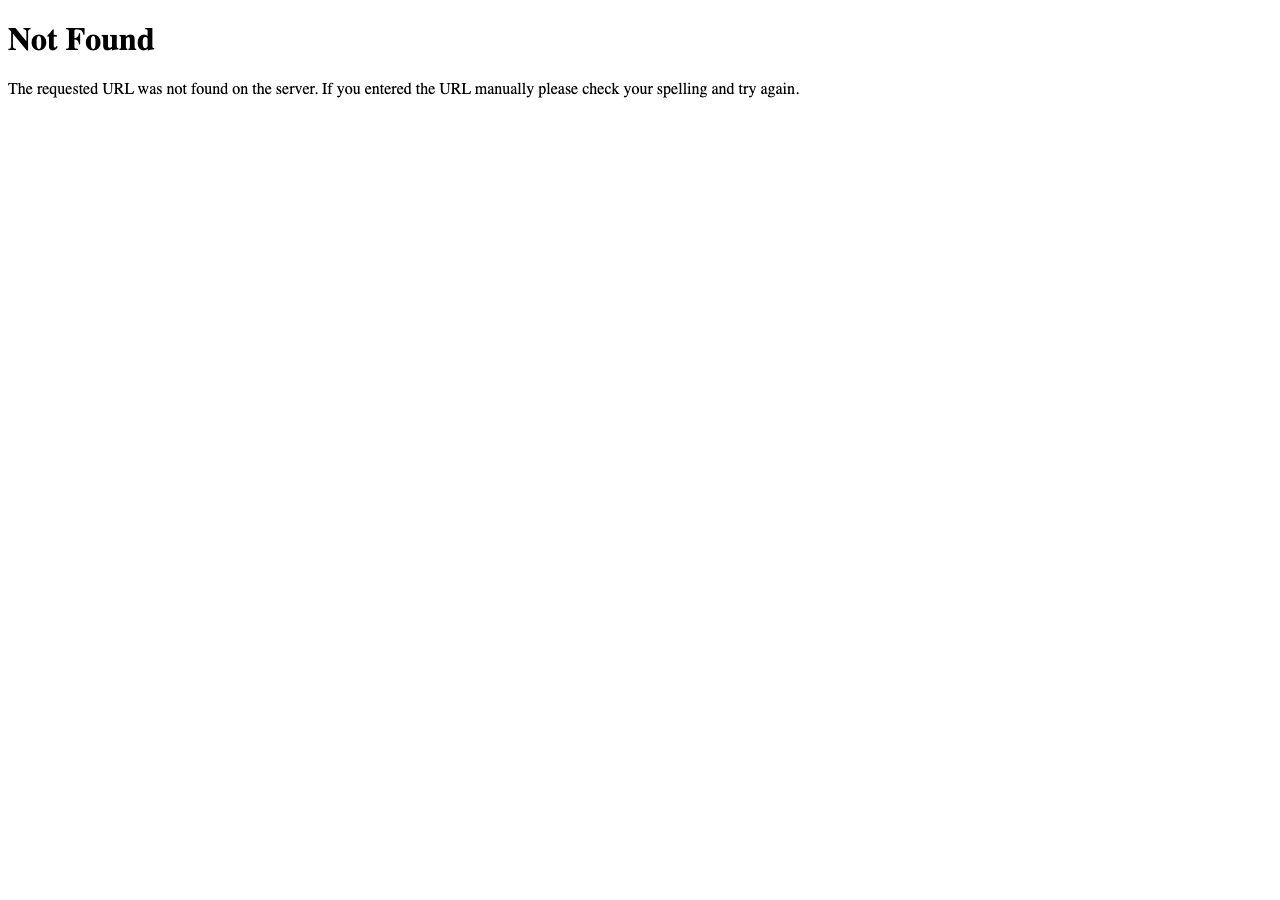
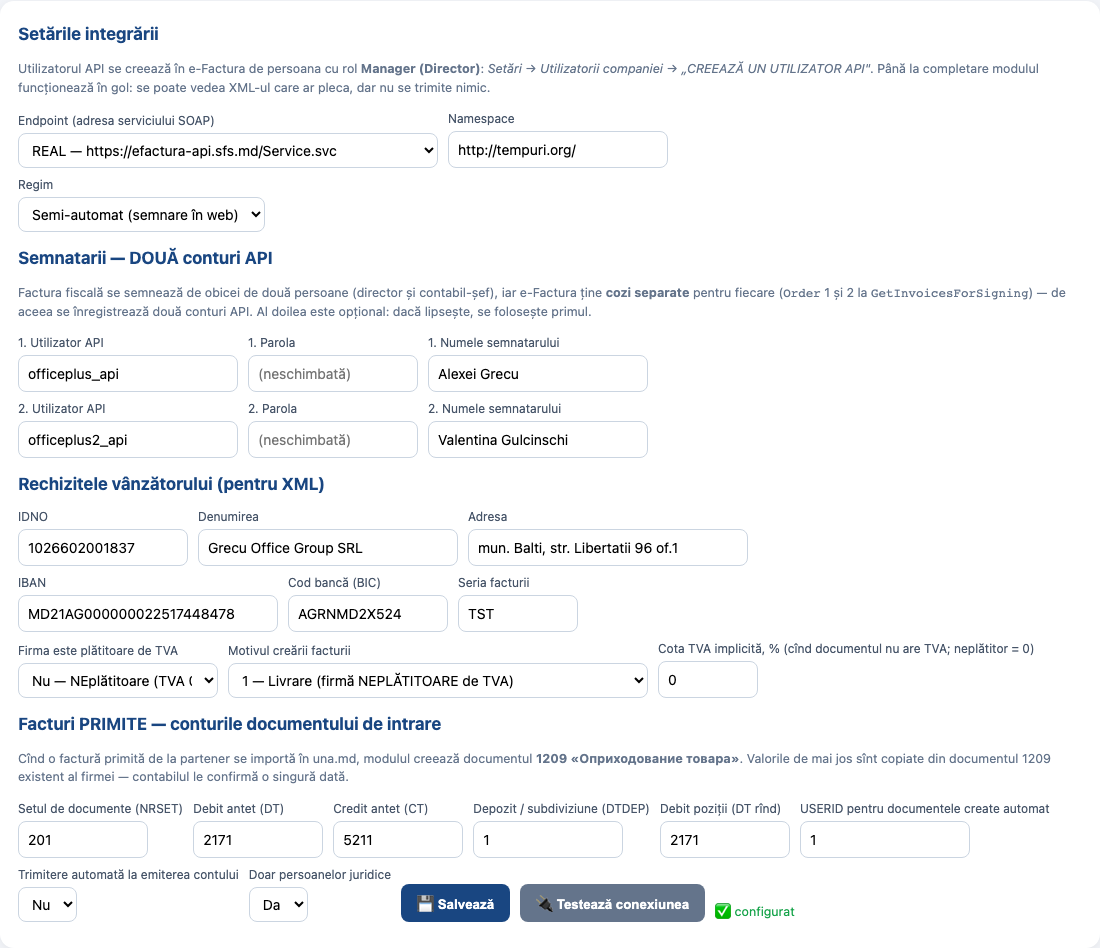
fix(efactura): captura 5 din act arata pagina Not Found (adresa /efactura/admin inexistenta) — refacuta de pe pagina reala; setarile contabile in_* aduse in interfata de administrare; jurnalul taiat la primele rinduri

diff --git a/docs/Partner/EFACTURA_ACT_TESTARE_2026-09-13.html b/docs/Partner/EFACTURA_ACT_TESTARE_2026-09-13.html
@@ -40,7 +40,7 @@ Ramura <code>feat/efactura</code>, worktree <code>Artgranit-efactura</code>.</p>
 <h2>2. Rezultatele pe pași</h2>
 <table>
 <tr><th>#</th><th>Pas (din instrucțiune)</th><th>Rezultat obținut</th><th>Verdict</th></tr>
-<tr><td>0</td><td>Pregătire: setări, formular nativ</td><td>setările <code>in_nrset 201 / in_dt 2171 / in_ct 5211 / in_dtdep 1 / in_dt_row 2171 / in_userid 1</code>, <code>vat_payer 0</code>, <code>creation_motiv 1</code>; formularul 12103 creat în <code>A$ADM</code> (OBJ_ID 11530 sub «Intrări», 5 acțiuni); <code>TMS_SYSS</code> tip XM completat (23 rînduri) după modelul FPROIECT</td><td class="ok">OK</td></tr>
+<tr><td>0</td><td>Pregătire: setări, formular nativ</td><td>setările <code>in_nrset 201 / in_dt 2171 / in_ct 5211 / in_dtdep 1 / in_dt_row 2171 / in_userid 1</code> (acum vizibile și editabile în pagina de administrare — defectul D8), <code>vat_payer 0</code>, <code>creation_motiv 1</code>; formularul 12103 creat în <code>A$ADM</code> (OBJ_ID 11530 sub «Intrări», 5 acțiuni); <code>TMS_SYSS</code> tip XM completat (23 rînduri) după modelul FPROIECT</td><td class="ok">OK</td></tr>
 <tr><td>2</td><td>«Preia din e-Factura» (contul real, rol cumpărător)</td><td><code>GetInvoicesForSigning</code> ActorRole 2 (Order 1 și 2) + <code>GetAcceptedInvoices</code>: <b>found 1, added 0, updated 1, errors []</b> — factura <b>EBL 000435006</b> din 24.08.2026, furnizor S.R.L. «TOTAL COMPUTER» (1008602007200), total 101,00 lei, TVA 16,84, <code>InvoiceStatus 7</code> (așteaptă decizia cumpărătorului), 2 poziții. Repetarea preluării nu a dublat rîndul (<code>updated</code>, nu <code>added</code>)</td><td class="ok">OK</td></tr>
 <tr><td>2</td><td>Lista (<code>GET …/test/inbox?env=prod</code>)</td><td><code>200</code>; rîndul cu seria/nr, furnizor, IDNO, data, total, TVA, SFS 7, statut, «În una.md», poziții 0/2 — vezi captura 1</td><td class="ok">OK</td></tr>
 <tr><td>3</td><td>Detaliul (<code>GET …/test/inbox/21</code>)</td><td><code>200</code>; cumpărătorul «S.R.L. "GRECU OFFICE GROUP"», 2 poziții: «Power Cord PC-220V 1.8m Russian Plug…» 1 buc 38,33 + TVA 7,67 = 46,00; «Power Cord PC-220V 1.8m Euro Plug PC-186» 1 buc 45,83 + 9,17 = 55,00; ambele <i>nepotrivite</i> (fără cod de bare, fără regulă) — vezi capturile 2–3</td><td class="ok">OK</td></tr>
@@ -65,8 +65,17 @@ Ramura <code>feat/efactura</code>, worktree <code>Artgranit-efactura</code>.</p>
 <div class="box"><b>2. Detaliul EBL 000435006 — furnizorul în una.md, pachetul 442, documentul 1209 nr. 443</b><br><img src="img/act_02_detaliu_ebl000435006.png" alt="detaliu"></div>
 <div class="box"><b>3. Pozițiile și potrivirea</b><br><img src="img/act_03_pozitii_si_potrivire.png" alt="pozitii"></div>
 <div class="box"><b>4. Pachetul 442 (<code>GET …/test/inbox/package/442</code>)</b><br><img src="img/act_04_pachet_442_json.png" alt="pachet"></div>
-<div class="box"><b>5. Administrare — contul real și setările contabile</b><br><img src="img/act_05_admin_setari.png" alt="admin"></div>
-<div class="box"><b>6. Jurnalul comunicărilor cu SFS (cerere + răspuns, inclusiv cele reușite)</b><br><img src="img/act_06_jurnal_sfs.png" alt="jurnal"></div>
+<div class="box"><b>5. Administrare — contul real, regimul TVA și conturile documentului de intrare</b>
+<br><span class="muted">Pagina <code>/UNA.md/orasldev/efactura/</code>: endpoint REAL, utilizatorii <code>officeplus_api</code> /
+<code>officeplus2_api</code> (parolele nu se afișează — cîmpurile arată «neschimbată»), firma NEplătitoare de TVA,
+motivul 1, cota 0, plus blocul nou «Facturi PRIMITE — conturile documentului de intrare» (defectul D8).</span>
+<br><img src="img/act_05_admin_setari.png" alt="administrarea e-Factura"></div>
+<div class="box"><b>6. Jurnalul comunicărilor cu SFS (cerere + răspuns, inclusiv cele reușite)</b>
+<br><span class="muted">Primele rînduri din <code>/UNA.md/orasldev/efactura/#calls</code>: apelurile probei de azi
+(sursa <code>act-test</code>, contul <code>officeplus_api</code>, <code>GetInvoicesForSigning</code> /
+<code>GetAcceptedInvoices</code>, HTTP 200, <code>Status=2</code> cu RequestId). Click pe rînd → plicul SOAP întreg,
+cu parola mascată.</span>
+<br><img src="img/act_06_jurnal_sfs.png" alt="jurnalul comunicarilor cu SFS"></div>
 
 <h2>4. Defecte găsite în timpul testării și rezolvate în aceeași zi</h2>
 <table>
@@ -78,6 +87,8 @@ Ramura <code>feat/efactura</code>, worktree <code>Artgranit-efactura</code>.</p>
 <tr><td>D5</td><td>pozițiile pachetului se dublau la re-import</td><td>vendorul doar adaugă</td><td>ștergerea pozițiilor fără <code>NRDOC_DEST</code> înainte de import</td></tr>
 <tr><td>D6</td><td><code>RROWID</code> începea de la 7</td><td>numărătoare pe tot pachetul</td><td><code>ROW_NUMBER()</code> per document</td></tr>
 <tr><td>D7</td><td><code>ERR_MSG</code> vechi rămînea după succes</td><td>—</td><td>șters cînd <code>DEST_NRDOC</code> e completat</td></tr>
+<tr><td>D8</td><td>Setările contabile ale importului (<code>in_nrset</code>, <code>in_dt</code>, <code>in_ct</code>, <code>in_dtdep</code>, <code>in_dt_row</code>, <code>in_userid</code>) existau doar în bază — contabilul nu le putea vedea și confirma</td><td>blocul lipsea din pagina de administrare</td><td>adăugat blocul «Facturi PRIMITE — conturile documentului de intrare» în <code>efactura_admin.html</code> (citire + salvare verificate) — captura 5</td></tr>
+<tr><td>D9</td><td>Linkuri moarte în act și instrucțiune (<code>/efactura/admin</code>, <code>/efactura/admin/calls</code>) și captura 5 arăta pagina «Not Found»</td><td>pagina de administrare e chiar rădăcina modulului (<code>/efactura/</code>), jurnalul e o secțiune a ei</td><td>linkurile corectate (<code>/efactura/</code>, ancora <code>#calls</code>), capturile 5 și 6 refăcute; <code>.md</code> din <code>/efactura/docs/…</code> se afișează acum ca HTML, nu se descarcă</td></tr>
 </table>
 
 <h2>5. Observații (nerezolvate, pentru decizie)</h2>

diff --git a/modules/efactura/templates/efactura_admin.html b/modules/efactura/templates/efactura_admin.html
@@ -113,6 +113,18 @@
     <div><label>Cota TVA implicită, % (cînd documentul nu are TVA; neplătitor = 0)</label>
       <input id="s-tva_rate" style="width:80px"></div>
   </div>
+  <h2 style="margin-top:14px">Facturi PRIMITE — conturile documentului de intrare</h2>
+  <p class="muted">Cînd o factură primită de la partener se importă în una.md, modulul creează
+    documentul <b>1209 «Оприходование товара»</b>. Valorile de mai jos sînt copiate din documentul
+    1209 existent al firmei — contabilul le confirmă o singură dată.</p>
+  <div class="row">
+    <div><label>Setul de documente (NRSET)</label><input id="s-in_nrset" style="width:110px"></div>
+    <div><label>Debit antet (DT)</label><input id="s-in_dt" style="width:110px"></div>
+    <div><label>Credit antet (CT)</label><input id="s-in_ct" style="width:110px"></div>
+    <div><label>Depozit / subdiviziune (DTDEP)</label><input id="s-in_dtdep" style="width:130px"></div>
+    <div><label>Debit poziții (DT rînd)</label><input id="s-in_dt_row" style="width:110px"></div>
+    <div><label>USERID pentru documentele create automat</label><input id="s-in_userid" style="width:150px"></div>
+  </div>
   <div class="row">
     <div><label>Trimitere automată la emiterea contului</label>
       <select id="s-auto_send"><option value="0">Nu</option><option value="1">Da</option></select></div>
@@ -182,7 +194,8 @@ const KEYS = ['endpoint','namespace','username','username2','signer1_name',
               'signer2_name','mode','seller_idno','seller_name',
               'seller_address','seller_iban','seller_bank_code','seria',
               'creation_motiv','tva_rate','vat_payer',
-              'auto_send','only_companies'];
+              'auto_send','only_companies',
+              'in_nrset','in_dt','in_ct','in_dtdep','in_dt_row','in_userid'];
 
 function syncVat() {
   // RO: neplatitor -> motivul din grupa 1/2/3 si cota 0; platitor -> 4/5 si 20
